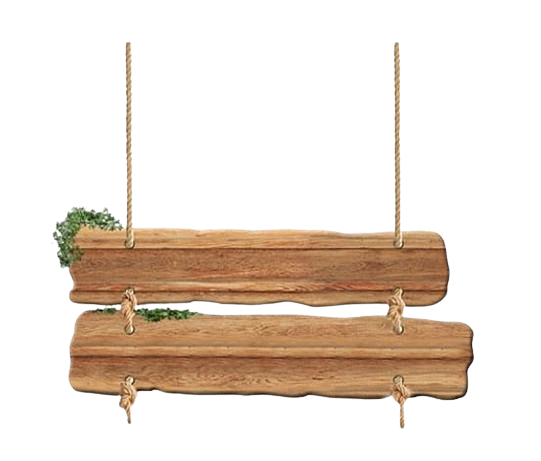
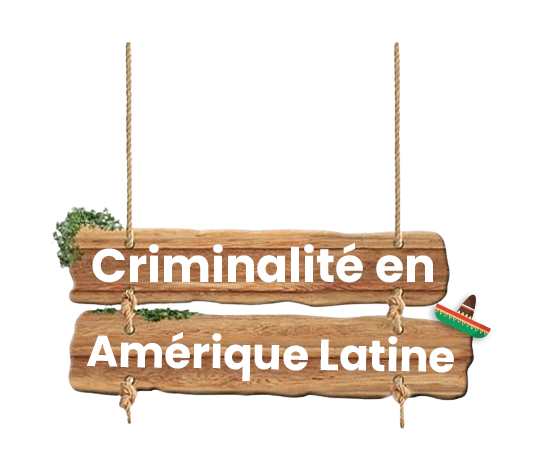
finishing

Changed region(s): [[0.1479, 0.6377, 0.9168, 0.8503], [0.1479, 0.5163, 0.7985, 0.6377]]

diff --git a/js/script.js b/js/script.js
@@ -2,7 +2,6 @@ let enterButton = document.querySelector(".enter-button");
 let enter = document.querySelector(".enter");
 let prison = document.querySelector(".prison");
 let sign = document.querySelector(".sign");
-let signText = document.querySelector(".sign-text-container");
 let blackScreen = document.querySelector(".blackscreen");
 let div = document.createElement("div");
 let flex = document.querySelector(".flex");
@@ -15,7 +14,6 @@ enterButton.addEventListener("click", () => {
   choose.style.left = "0%";
   prison.style.left = "100%";
   sign.style.top = "-100%";
-  signText.style.top = "-60%";
   blackScreen.style.opacity = ".6";
   choose.style.zIndex = "100";
   setTimeout(() => {
@@ -615,6 +613,7 @@ fetch("./js/data.json")
       land_list.appendChild(div_land);
       div_land.appendChild(img);
       div_land.appendChild(p_land);
+      let popup_line = document.createElement("div");
 
       let div_popup = document.createElement("div");
       let svg_cross = document.createElement("svg");
@@ -686,7 +685,7 @@ fetch("./js/data.json")
           bar.setAttribute('class', 'bar');
           svg.appendChild(bar);
           bar.addEventListener('click', () => {
-            alert(`En ${d.annee}, le taux de criminalité était de ${d.taux}`);
+            popup_line.innerText = `En ${d.annee}, le taux de criminalité était de ${d.taux}`;
           });
         });
       
@@ -698,6 +697,9 @@ fetch("./js/data.json")
         chart.setAttribute('transform', `translate(${margin.left},${margin.top})`);
         svg.appendChild(chart);
       }
+
+      div_popup.appendChild(popup_line);
+      popup_line.className = 'popup-line'
       
       // Exemple d'appel de la fonction pour un pays donné
       createChartForCountry(`${Object.keys(data)[i]}`);
@@ -722,5 +724,5 @@ fetch("./js/data.json")
         cross_s.parentElement.classList.toggle("display-none");
       });
     });
+  
   });
-// }

diff --git a/styles/style.css b/styles/style.css
@@ -27,7 +27,7 @@ body {
 .sign {
   position: absolute;
   z-index: 13;
-  width: 900px;
+  width: 40vw;
   top: -27%;
   left: 50%;
   transform: translateX(-50%);
@@ -60,35 +60,6 @@ body {
   font-weight: 900;
   font-size: 15rem;
   cursor: pointer;
-}
-
-.sign-text-container{
-  position: absolute;
-  top: 14%;
-  left: 34%;
-  transition: 2s linear;
-}
-
-.sign-text-top {
-  position: relative;
-  z-index: 13;
-  color: #ebf9ff;
-  font-weight: 700;
-  font-size: 4.7rem;
-}
-
-.sign-text-bottom {
-  position: relative;
-  z-index: 13;
-  color: #ebf9ff;
-  font-weight: 700;
-  font-size: 4.5rem;
-  top: 1.7vw;
-  transform: rotate(1deg);
-}
-
-.sign-text {
-  transition: 2s linear;
 }
 
 .tumbleweed {
@@ -322,4 +293,12 @@ button{
   left: 50%;
   top: 50%;
   transform: translate(-50%, -50%);
+}
+
+.popup-line{
+  font-size: 1em;
+  position: relative;
+  top: 60%;
+  left: 50%;
+  transform: translate(-20%, 0);
 }

diff --git a/index.html b/index.html
@@ -22,13 +22,7 @@
             <img src="img/desert.jpg" alt="" class="desert">
             <img src="img/jails-bar.png" alt="" class="prison">
         </div>
-        <div class="sign-container">
             <img src="img/sign.png" alt="" class="sign">
-            <div class="sign-text-container">
-                <div class="sign-text-top sign-text">Criminalité en</div>
-                <div class="sign-text-bottom sign-text">Amérique Latine</div>
-            </div>
-        </div>
         <div class="enter-button">
             <div class="enter-button-text">ENTRER</div>
         </div>
@@ -40,7 +34,6 @@
             Choisissez un pays
         </h1>
         <div class="flex"> 
-            <!-- <img src="img/sud-america.png" alt="" class="sud-america"> -->
             
             <div class="land-list">
                 

diff --git a/styles/style-tablet.css b/styles/style-tablet.css
@@ -53,3 +53,8 @@
     transform: translate(0, -30%);
     transform: scale(.7);
 }
+
+.popup-line{
+    font-size: .7em;
+    transform: translate(-30%, 0);
+}
